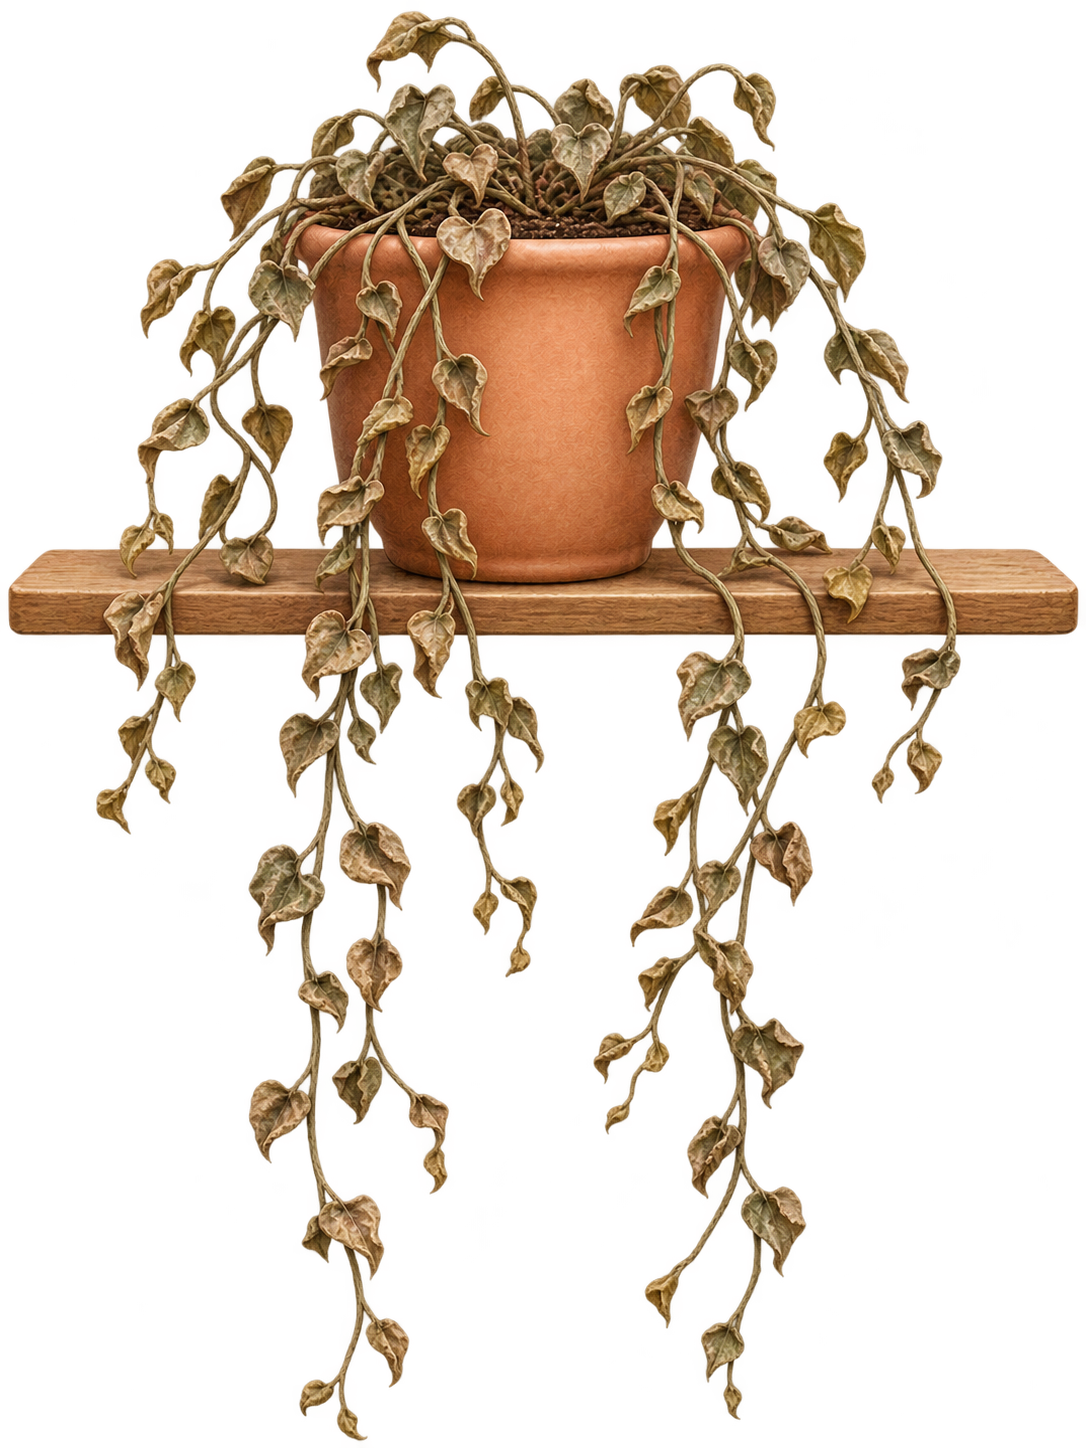
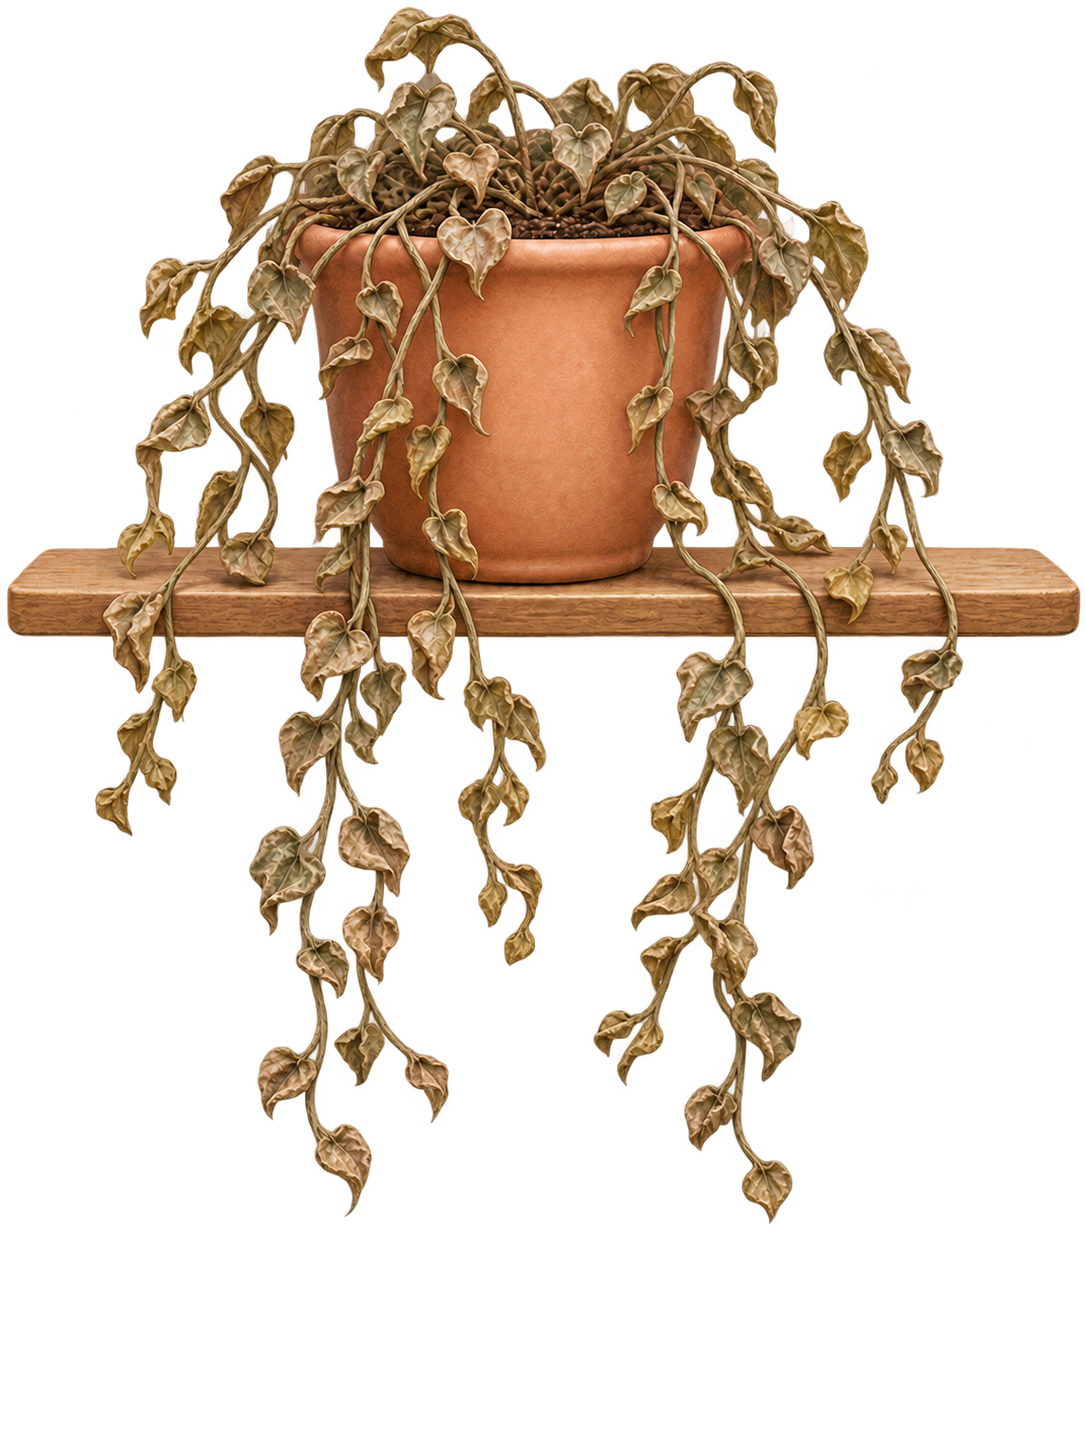
Shorten heart plant vines naturally

diff --git a/src/components/CoupleFlower.tsx b/src/components/CoupleFlower.tsx
@@ -107,8 +107,9 @@ export function CoupleFlower({ coupleId, partnerId }: { coupleId: string; partne
         <Text style={styles.status}>{status}</Text><Feather name="edit-2" size={9} color={colors.textSecondary} />
       </Pressable>
       <View style={[styles.plantArea, { height: plantAreaHeight }]}>
+        <Image source={booksSource} resizeMode="contain" style={[styles.lowerBooks, { height: booksHeight }]} accessibilityIgnoresInvertColors />
         {plantType === 'hanging' ? (
-          <View style={[styles.hangingPlantClip, { height: artworkHeight * 0.8 }]} pointerEvents="none">
+          <View style={[styles.hangingPlantClip, { height: artworkHeight * 0.98 }]} pointerEvents="none">
             <Image source={plantAssets[plantType].dry} resizeMode="contain" style={[styles.plantImage, { top: 6, height: artworkHeight }]} accessibilityIgnoresInvertColors />
             <Animated.Image source={plantAssets[plantType].lush} resizeMode="contain" style={[styles.plantImage, { top: 6, height: artworkHeight, opacity: lushOpacity }]} accessibilityIgnoresInvertColors />
           </View>
@@ -118,7 +119,6 @@ export function CoupleFlower({ coupleId, partnerId }: { coupleId: string; partne
             <Animated.Image source={plantAssets[plantType].lush} resizeMode="contain" style={[styles.shelvedPlantImage, { height: artworkHeight, opacity: lushOpacity }]} accessibilityIgnoresInvertColors />
           </View>
         )}
-        <Image source={booksSource} resizeMode="contain" style={[styles.lowerBooks, { height: booksHeight }]} accessibilityIgnoresInvertColors />
         <Pressable onPress={() => router.push('/books')} accessibilityRole="button" accessibilityLabel="Okuyacağımız kitaplar listesini aç" style={plantType === 'hanging' ? styles.lowerBooksTap : styles.shelfBooksTap} />
       </View>
       <Pressable onPress={() => { void water(); }} disabled={loading || watering} accessibilityRole="button" accessibilityLabel="Ortak bitkiyi sula" style={({ pressed }) => [styles.waterButton, pressed && styles.pressed, (loading || watering) && styles.disabled]}>
